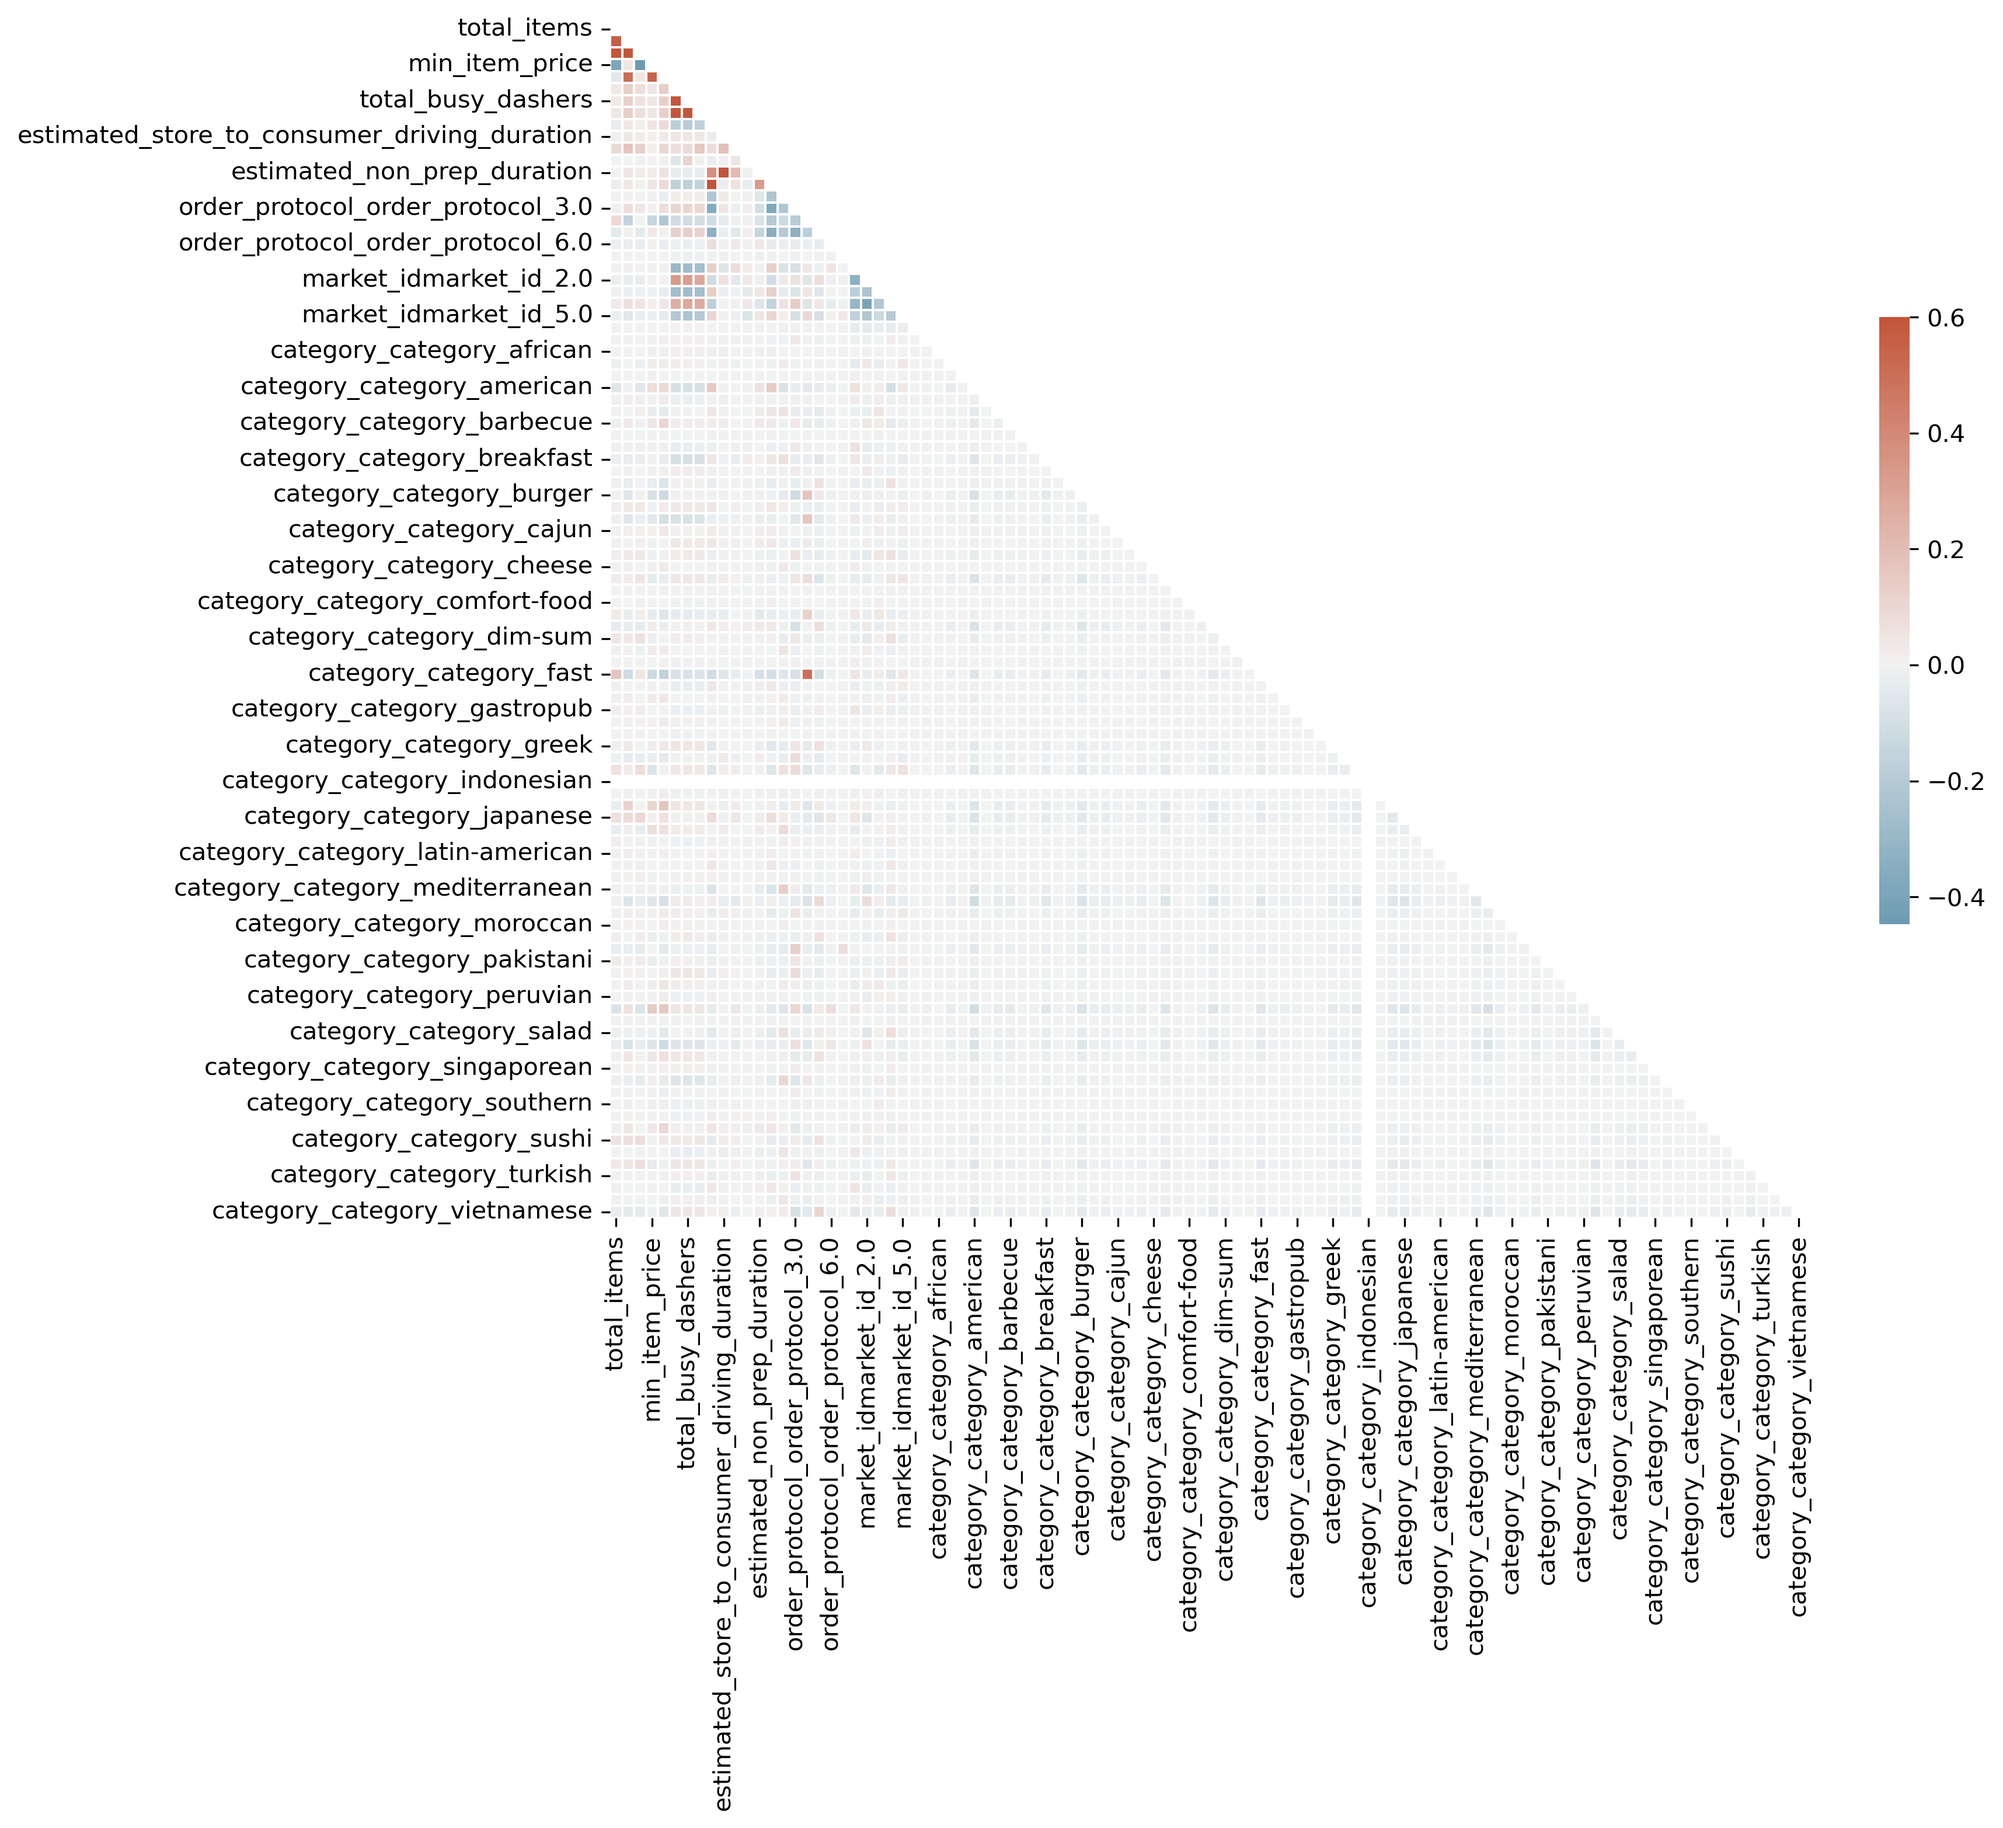
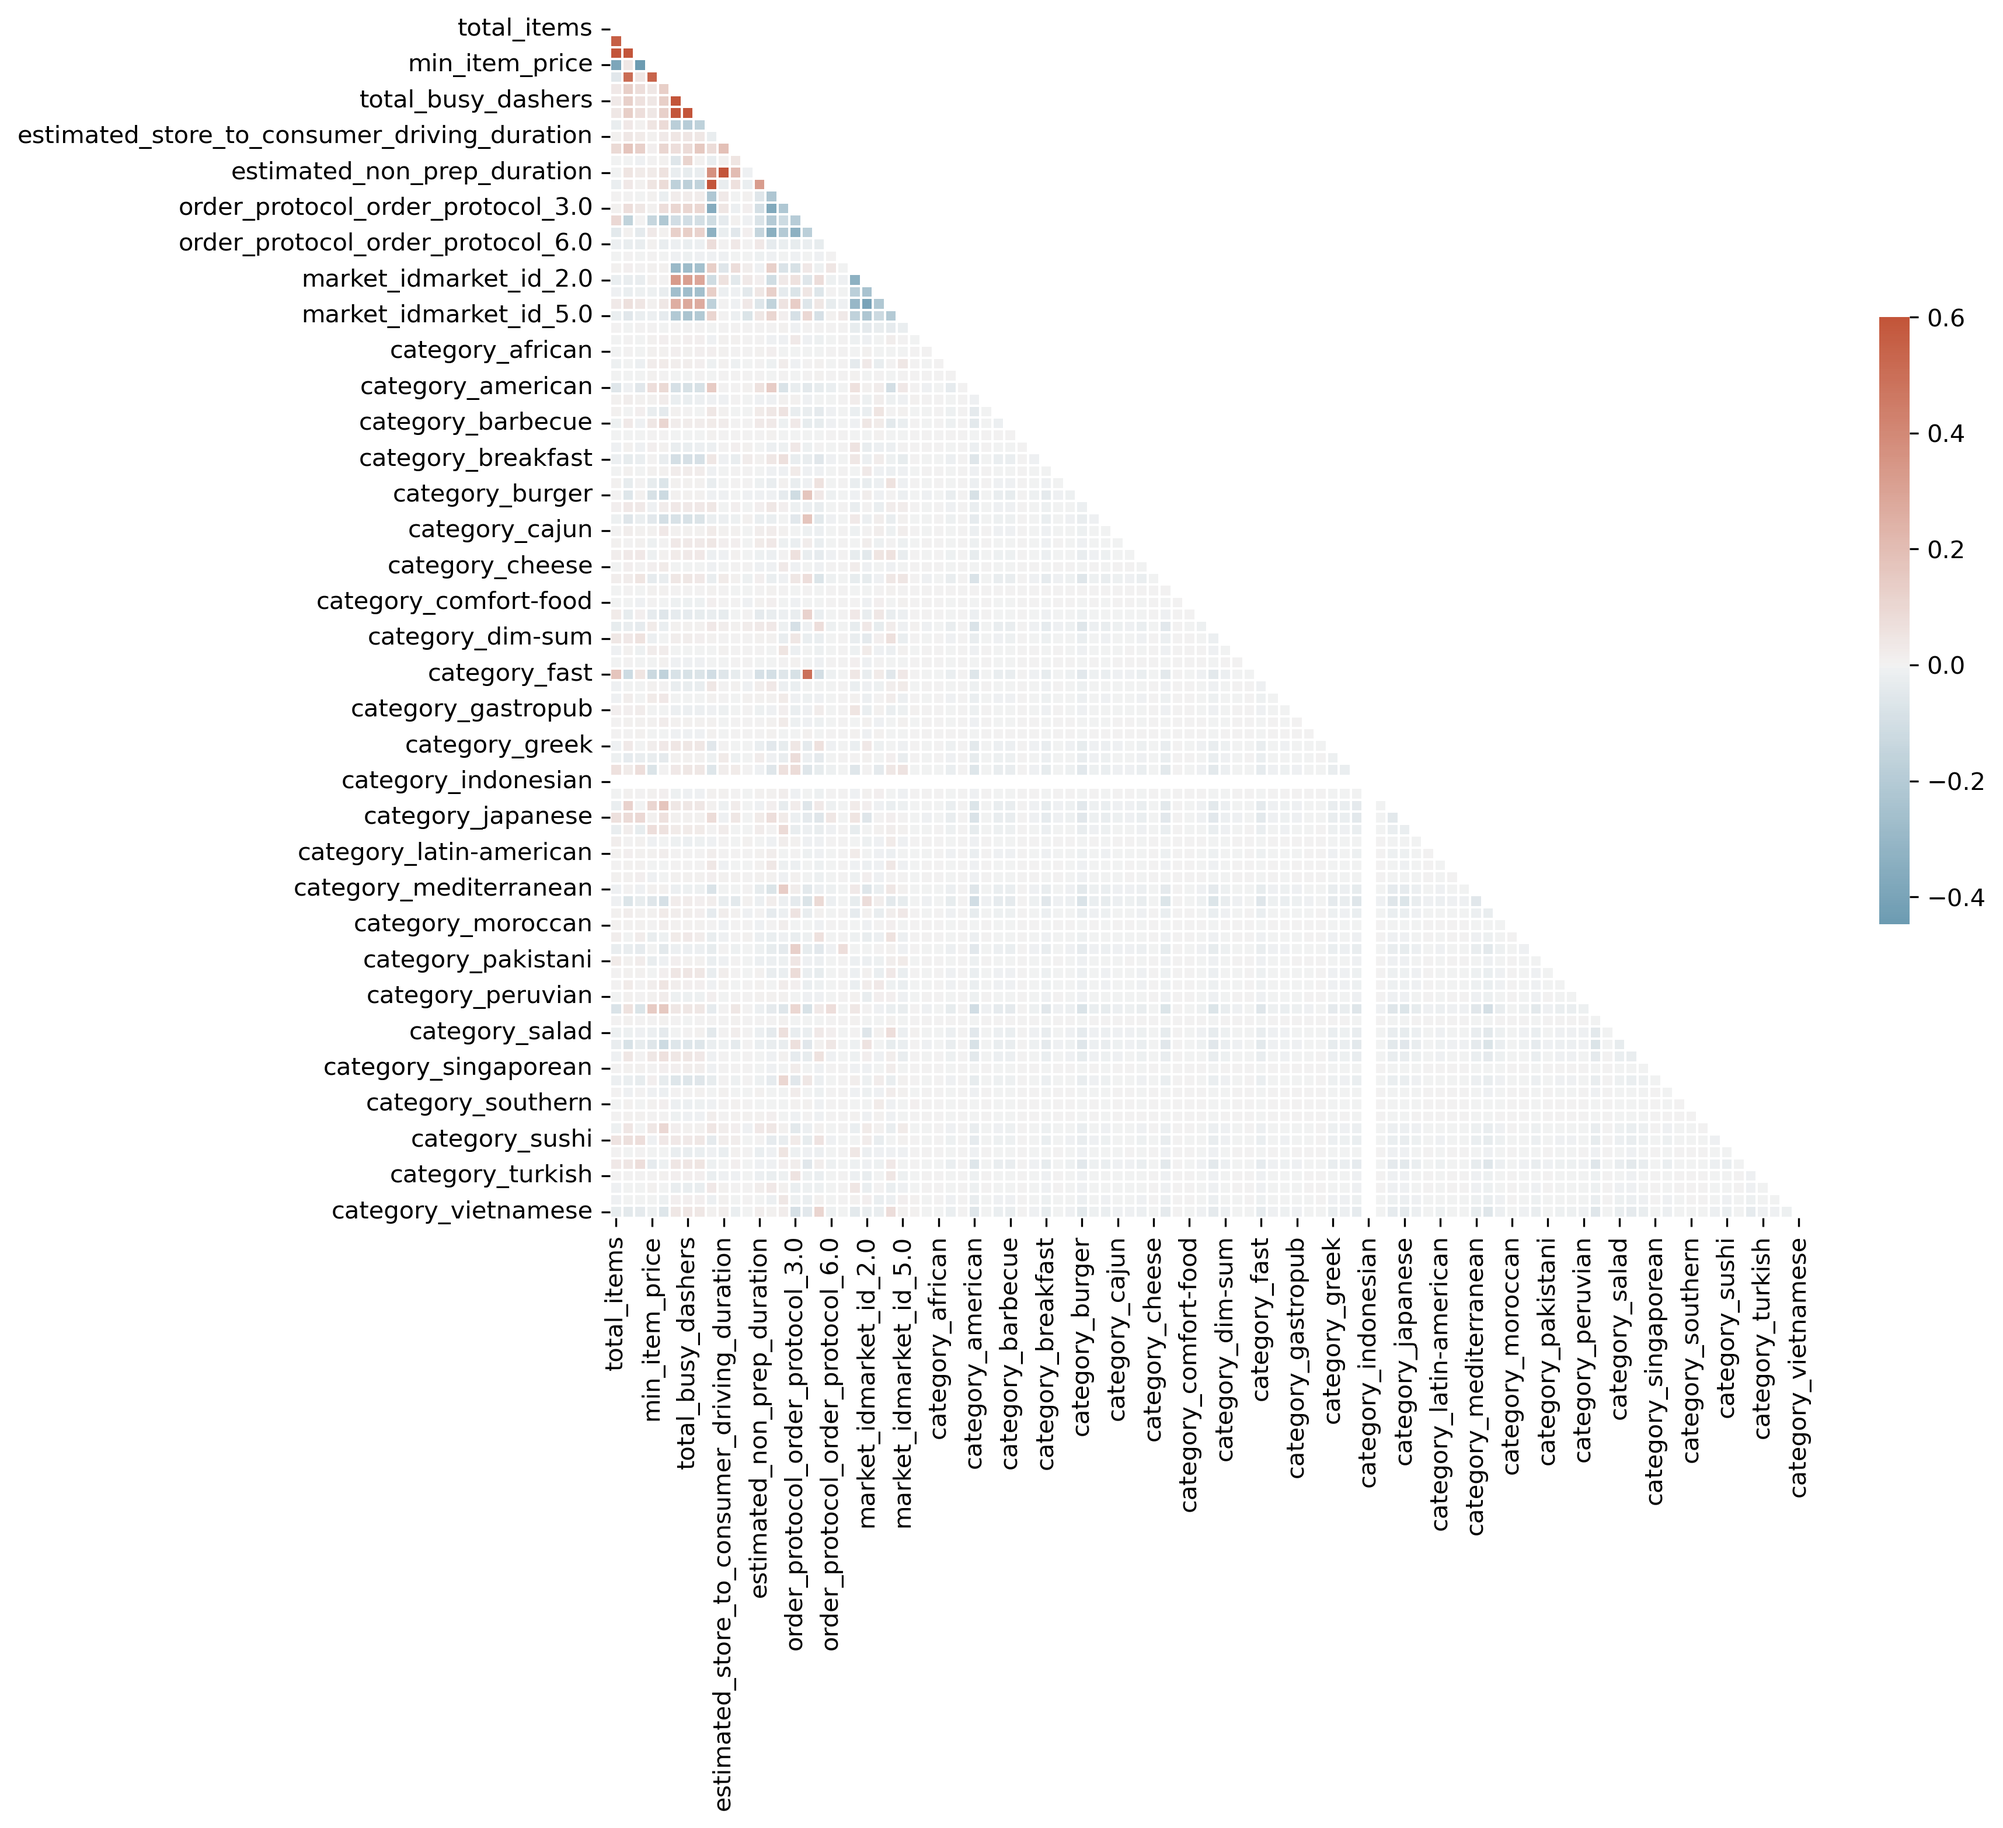
Update ...

Changed region(s): [[0.0936, 0.1859, 0.2183, 0.6816], [0.4678, 0.7745, 0.842, 0.8984], [0.842, 0.7745, 0.9044, 0.8675]]

diff --git a/delivery_prediction.py b/delivery_prediction.py
@@ -79,7 +79,7 @@ old_data['nan_free_store_primary_category'] = old_data.store_id.apply(fill)
 
 
 ##One hot encode the colunm
-store_primary_category_dummies = pd.get_dummies(old_data.nan_free_store_primary_category).add_prefix('category_')
+store_primary_category_dummies = pd.get_dummies(old_data.nan_free_store_primary_category)
 store_primary_category_dummies = store_primary_category_dummies.add_prefix('category_')
 store_primary_category_dummies.head()
 
@@ -106,7 +106,7 @@ np.where(np.any(~np.isfinite(train_df), axis=0) == True)
 train_df.replace([np.inf, -np.inf], np.nan, inplace =True)
 ##Drop all nans
 train_df.dropna(inplace=True)
-print(train_df.shape)
+# print(train_df.shape)
 
 ##--------------------------------------------------------------------------------------------------------------------------------------------------
 """There are 100 cols in the final dataset, so maybe have redundant features are not useful bc of repeating another feature
@@ -129,5 +129,33 @@ cmap = sns.diverging_palette(230,20, as_cmap= True)
 sns. heatmap(corr, mask=mask, cmap=cmap, vmax = 0.6, center = 0, square=True, linewidths=0.5, cbar_kws={"shrink": 0.5})
 
 ##Show plot (correlation heat map)
-plt.savefig('Correlation heat map.png', dpi=300,bbox_inches='tight')
-plt.show()
+# plt.savefig('Correlation heat map.png', dpi=300,bbox_inches='tight')
+# plt.show()
+
+##Check STD=0
+# print(train_df['category_vietnamese'].describe())
+# print(train_df['category_japanese'].describe())
+# print(train_df['category_indonesian'].describe()) #This has SRD=0, drop this
+
+def get_redundant_pairs(df):
+    """Get diagonal and lower triangular pairs of correlation matrix"""
+    pairs_to_drop = set()
+    cols = df.columns
+    for i in range(0, df.shape[1]):
+        for j in range(0, i+1):
+            pairs_to_drop.add((cols[i], cols[j]))
+    return pairs_to_drop
+
+def get_top_abs_correlations(df, n=5):
+    """Sort correlations in the descending order and return n highest results"""
+    au_corr = df.corr().abs().unstack()
+    labels_to_drop = get_redundant_pairs(df)
+    au_corr = au_corr.drop(labels=labels_to_drop).sort_values(ascending=False)
+    return au_corr[0:n]
+
+print("Top Absolute Correlations")
+print(get_top_abs_correlations(train_df, 20))
+
+
+
+
